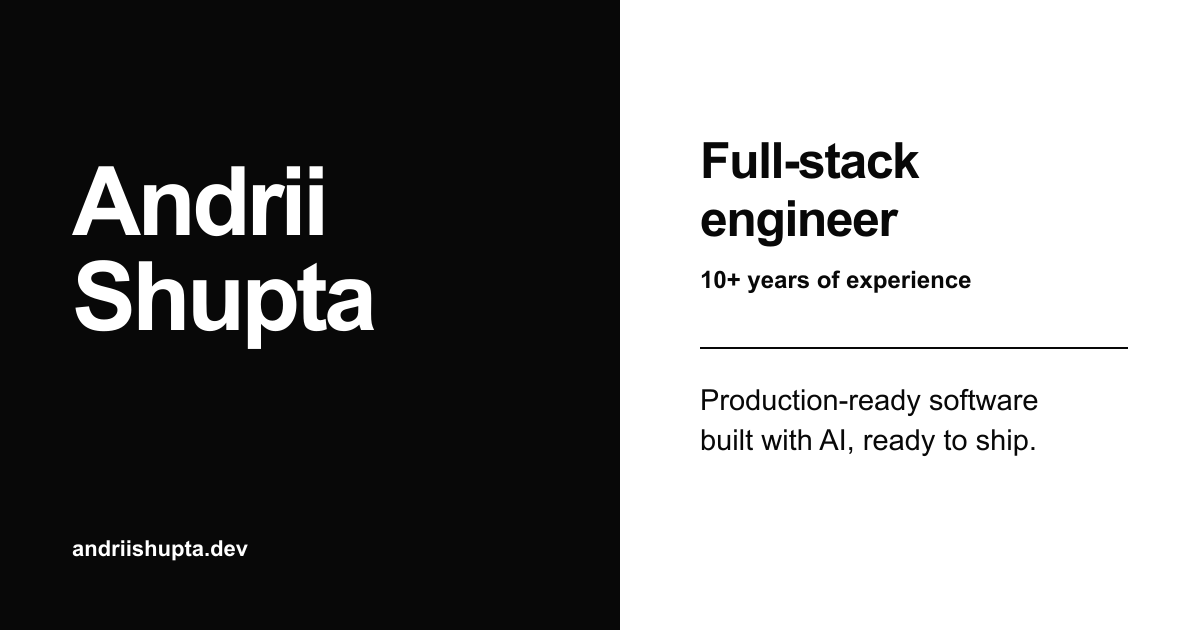
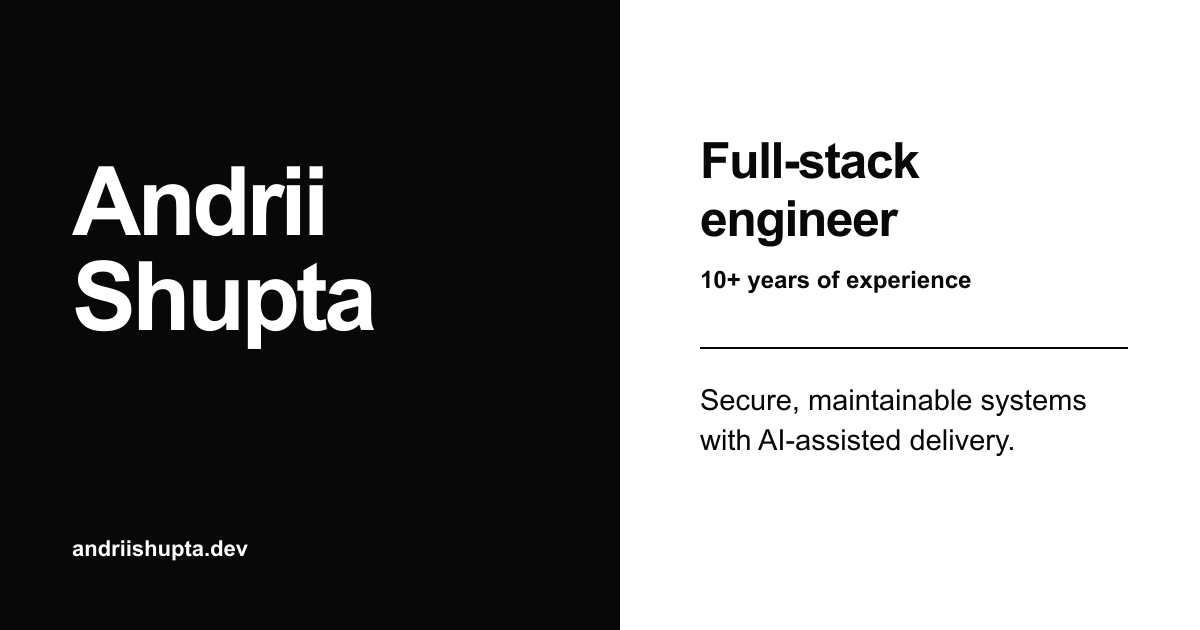
feat: og images

Changed region(s): [[0.5858, 0.6032, 0.925, 0.7238]]

diff --git a/src/copy.ts b/src/copy.ts
@@ -17,7 +17,7 @@ export const copy = {
   seo: {
     title: "Andrii Shupta - Full-Stack Engineer",
     description:
-      "Full-stack engineer with 10+ years of experience building secure, maintainable software, modernizing products, and turning AI-generated code into production-ready systems.",
+      "Full-stack engineer with 10+ years building secure, maintainable software, modernizing products, and bringing AI-assisted code to production.",
     imageAlt:
       "Andrii Shupta - Full-stack engineer building production-ready software with AI",
     twitterHandle: "@andriishupta",

diff --git a/AGENTS.md b/AGENTS.md
@@ -32,6 +32,8 @@ This repository contains the source for the personal website at `andriishupta.de
 - Keep the site static unless a feature clearly needs client-side JavaScript.
 - Treat SEO as a first-class concern: every page should have a clear title,
   description, canonical path when relevant, and share metadata.
+- Keep homepage meta descriptions within roughly 110–160 characters; update both
+  `public/og-image.svg` and its 1200×630 PNG export when refreshing the share preview.
 - Keep the visual direction creative but restrained: minimal, personal,
   terminal/founder/developer energy, with strong typography and spacing.
 - Use animation sparingly. Prefer subtle fades, hover response, and small

diff --git a/MEMORY.md b/MEMORY.md
@@ -28,6 +28,7 @@
 - SEO:
   - Layout supports title, description, canonical URL, Open Graph, and Twitter metadata.
   - Global metadata includes author, creator, robots, keywords, theme colors, OG locale, and image fallback.
+  - Homepage meta/OG description is kept at 141 characters to avoid search and social truncation; `public/og-image.svg` is the editable source for the 1200×630 PNG preview.
 - Favicon:
   - `public/favicon.svg` is a custom `A` letter mark.
 - Tooling:
